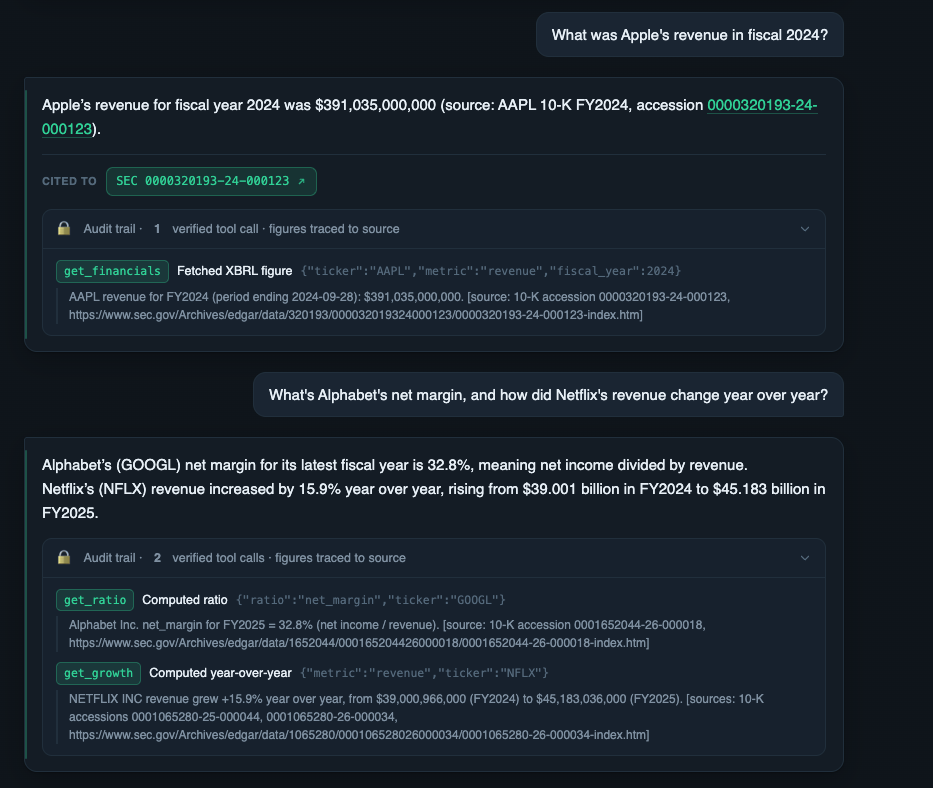
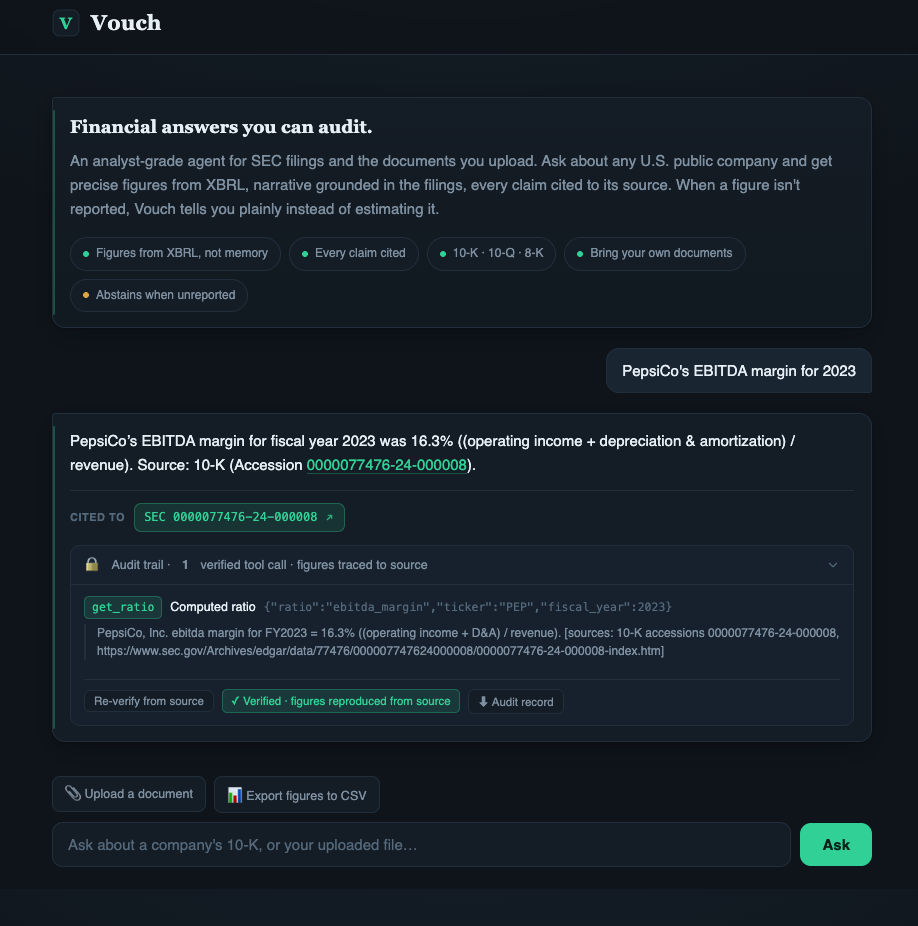
docs: refresh hero screenshot to show one-click re-verify + audit record
Replace the cited-answer screenshot with a current-UI capture (PepsiCo EBITDA margin via get_ratio)
that also shows the Phase-A3 audit features added after the old shot: "Re-verify from source",
the "Verified · figures reproduced from source" badge, and audit-record export. Caption updated.

diff --git a/README.md b/README.md
@@ -6,7 +6,7 @@
 
 [![Eval](https://github.com/Zhonghui-li/sec-filing-agent/actions/workflows/eval.yml/badge.svg)](https://github.com/Zhonghui-li/sec-filing-agent/actions/workflows/eval.yml)
 
-![Vouch — an exact figure cited to the filing, shown with its tool-call audit trail](docs/demo-cited-answer.png)
+![Vouch — an exact figure cited to the filing, with its tool-call audit trail and a one-click re-verify that reproduces the number from source](docs/demo-cited-answer.png)
 
 ![Vouch — a segment breakdown with a DQC-0150 sum-check, and an honest abstention on a non-GAAP figure](docs/demo-segment-abstention.png)
 
